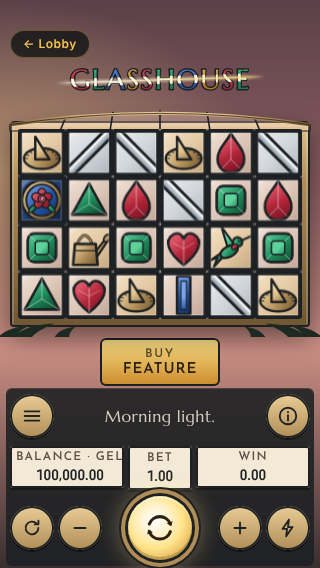
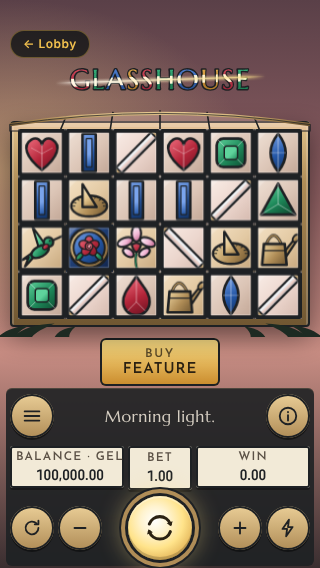
Glasshouse stage 4 (art): silvered mirrors with brass caps, taller roof on tall phones
Claude-Session: https://claude.ai/code/session_013Yk8uaASzNjP6jGEKR2hEG

Changed region(s): [[0.0625, 0.2095, 0.9375, 0.5687]]

diff --git a/games/glasshouse/client/game.js b/games/glasshouse/client/game.js
@@ -110,7 +110,7 @@
 
     // The pane behind the motif: frosted dawn glass, a few mottles, a soft streak of reflection.
     const bg = sym === "ROSE" ? ["#3c5f9e", "#1d3a6e", "#10244a"] : sym === "LENS" ? ["#fff1d0", "#e9c690", "#b88d55"] : sym === "CLEAR" ? ["#fbf6ee", "#efe4d6", "#dccbb8"]
-      : sym.startsWith("MIRROR") ? ["#eef0f2", "#cfd5da", "#a9b2ba"] : ["SUNDIAL", "WATERING_CAN", "ORCHID", "HUMMINGBIRD"].includes(sym) ? ["#f6e4c8", "#e3c9a3", "#c4a47a"] : ["#f1e3d8", "#dcc5b6", "#bfa392"];
+      : sym.startsWith("MIRROR") ? ["#fbefe9", "#ecd6cd", "#d2b6aa"] : ["SUNDIAL", "WATERING_CAN", "ORCHID", "HUMMINGBIRD"].includes(sym) ? ["#f6e4c8", "#e3c9a3", "#c4a47a"] : ["#f1e3d8", "#dcc5b6", "#bfa392"];
     g.fillStyle = grad(0, 0, 1, 1, bg); g.fillRect(0, 0, s, s);
     g.save(); g.globalAlpha = 0.22; g.fillStyle = "#ffffff";
     g.beginPath(); g.moveTo(X(0.08), X(0.02)); g.lineTo(X(0.3), X(0.02)); g.lineTo(X(0.02), X(0.3)); g.lineTo(X(0.02), X(0.12)); g.closePath(); g.fill();
@@ -201,11 +201,15 @@
         g.save();
         if (sym === "MIRROR_FALL") { g.translate(s, 0); g.scale(-1, 1); }
         g.translate(X(0.5), X(0.5)); g.rotate(-Math.PI / 4);
-        const L = 0.66, W = 0.2;
-        g.beginPath(); g.rect(X(-L), X(-W / 2), X(2 * L), X(W));
-        const sv = g.createLinearGradient(0, X(-W / 2), 0, X(W / 2)); sv.addColorStop(0, "#ffffff"); sv.addColorStop(0.45, "#c9d1d8"); sv.addColorStop(1, "#6f7b86");
-        g.fillStyle = sv; g.fill(); g.lineWidth = lw * 1.2; g.strokeStyle = LEAD; g.stroke();
-        g.beginPath(); g.moveTo(X(-L * 0.8), X(-W * 0.18)); g.lineTo(X(L * 0.8), X(-W * 0.18)); g.lineWidth = lw * 0.4; g.strokeStyle = "rgba(255,255,255,0.95)"; g.stroke();
+        const L = 0.6, W = 0.17;
+        // The silver: bright along its top edge, the dawn caught in its lower half.
+        const sv = g.createLinearGradient(0, X(-W / 2), 0, X(W / 2));
+        sv.addColorStop(0, "#ffffff"); sv.addColorStop(0.35, "#e6ebf0"); sv.addColorStop(0.62, "#f2cfc4"); sv.addColorStop(1, "#9aa6b1");
+        g.beginPath(); g.rect(X(-L), X(-W / 2), X(2 * L), X(W)); g.fillStyle = sv; g.fill();
+        g.lineWidth = lw * 0.9; g.strokeStyle = LEAD; g.stroke();
+        g.beginPath(); g.moveTo(X(-L * 0.86), X(-W * 0.22)); g.lineTo(X(L * 0.86), X(-W * 0.22)); g.lineWidth = lw * 0.35; g.strokeStyle = "rgba(255,255,255,0.95)"; g.stroke();
+        // Brass caps hold the glass at both ends.
+        for (const x of [-L, L - 0.08]) { g.beginPath(); g.rect(X(x), X(-W / 2 - 0.02), X(0.08), X(W + 0.04)); g.fillStyle = grad(0, -0.1, 0, 0.1, GLASS.brass); g.fill(); g.lineWidth = lw * 0.7; g.strokeStyle = LEAD; g.stroke(); }
         g.restore();
         break;
       }

diff --git a/games/glasshouse/client/index.html b/games/glasshouse/client/index.html
@@ -110,6 +110,12 @@
     /* Room for the demo's Lobby link (.lobby-slot, top-left): it never covers the logo. */
     @media (max-width: 560px) { .sky { padding-top: 30px; } }
     @media (orientation: portrait) and (max-height: 700px) { .logo svg { width: clamp(200px, 64vw, 320px); } }
+    /* Tall phones: the spare height goes to the logo and the glasshouse roof, not empty space. */
+    @media (orientation: portrait) and (min-height: 760px) {
+      .logo svg { width: min(88vw, 440px); }
+      .house { --arch: clamp(30px, 11cqh, 96px); }
+      .ferns { height: clamp(24px, 8cqh, 60px); bottom: calc(-1 * clamp(14px, 4cqh, 34px)); }
+    }
     @media (orientation: landscape) and (max-height: 520px) {
       .gh-stage { gap: 4px; }
       .sky { padding: 0 0 0 84px; }
